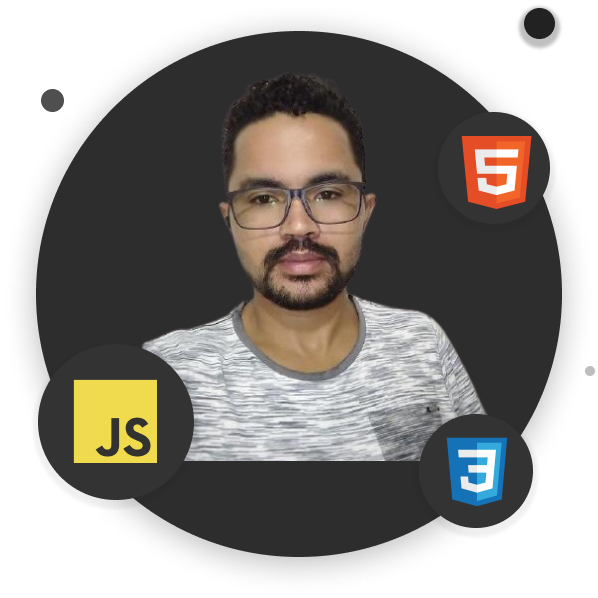
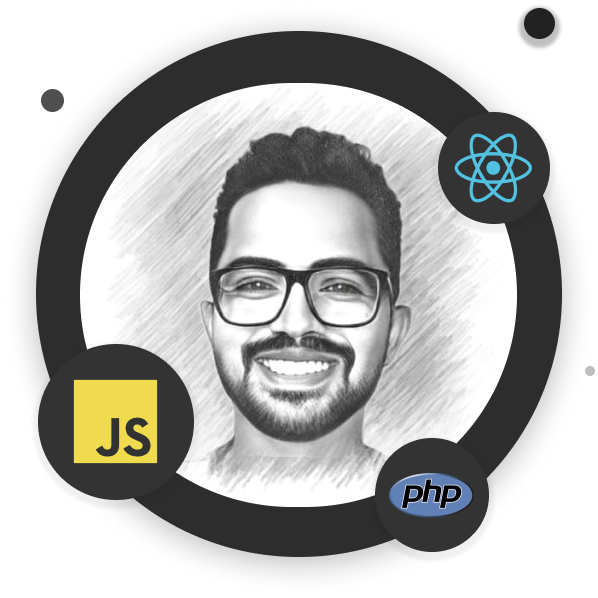
Profile Picture Update and Page Width Adjustment
Updated the profile picture and adjusted the lateral limitation of the webpage in this commit. The profile picture now reflects the latest changes, and the adjustment ensures a more refined and visually controlled page layout.

diff --git a/styles/header.css b/styles/header.css
@@ -3,14 +3,15 @@ nav {
     justify-content: space-between;
     align-items: center;
     height: 2em;
-    padding: 1em 5em;
+    padding: 1em 0;
+    margin: 0 1em;
 }
 
 .header__name{
     color: var(--tertiary-color);
     text-transform: uppercase;
     font-weight: 700;
-    font-size: 2em;
+    font-size: 2em; 
     align-items: center;
 }
 

diff --git a/styles/aboutMe.css b/styles/aboutMe.css
@@ -5,6 +5,8 @@
 
 .aboutMe__info {
     width: 50%;
+    margin: 0 0 0 1em;
+
 }
 
 .aboutMe__info__text {

diff --git a/styles/whoIAm.css b/styles/whoIAm.css
@@ -6,6 +6,7 @@
 
 .whoIAm__info {
     width: 50%;
+    margin: 0 0 0 1em;
 }
 
 .whoIAm__info__text {
